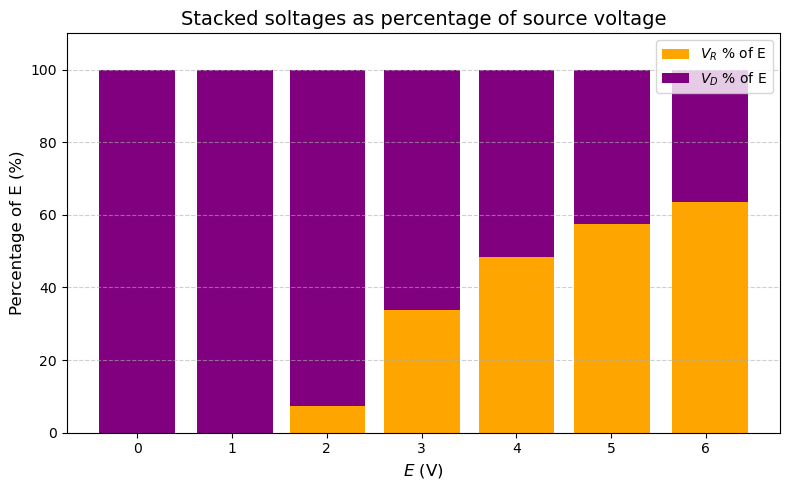
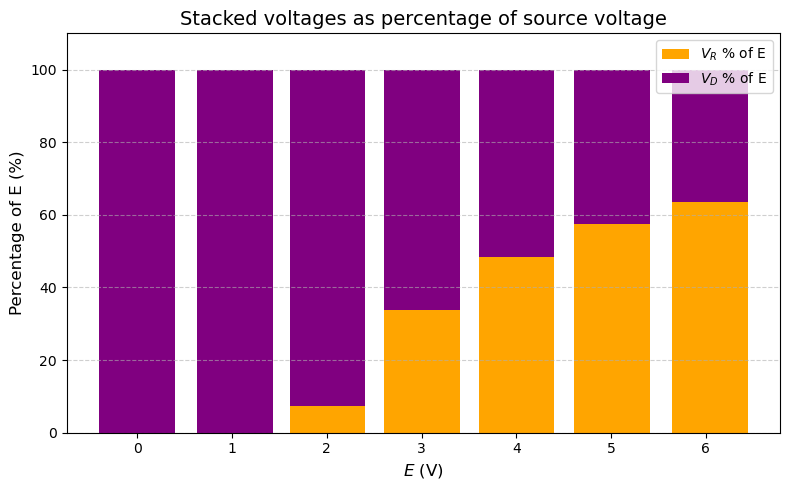
updated part4 plots

Changed region(s): [[0.2127, 0.0306, 0.8506, 0.0612]]

diff --git a/Lab01/Code/Part4Plot.py b/Lab01/Code/Part4Plot.py
@@ -105,7 +105,7 @@ plt.plot(y1, y3, color="purple", linestyle="-", alpha=0.7)
 slope3, intercept3, r2_3, model3 = linear_fit(y1, y3)
 x_line2 = np.linspace(y1[SKIP_POINTS], y1[-1], 100).reshape(-1, 1)
 plt.plot(x_line2, model3.predict(x_line2), color="blue", linestyle="--",
-         label=f"Fit: slope={slope3:.3f}, $R^2$={r2_3:.3f}")
+         label=f"$I_D$ fit: slope={slope3:.3f}, $R^2$={r2_3:.3f}")
 
 # Labels & formatting
 plt.xlabel(r"$V_{D}$ (V)", fontsize=12)
@@ -128,7 +128,7 @@ plt.bar(x, percent_VD, bottom=percent_VR, color="purple", label=r"$V_D$ % of E")
 # Labels & formatting
 plt.xlabel(r"$E$ (V)", fontsize=12)
 plt.ylabel("Percentage of E (%)", fontsize=12)
-plt.title("Stacked soltages as percentage of source voltage", fontsize=14)
+plt.title("Stacked voltages as percentage of source voltage", fontsize=14)
 plt.legend()
 plt.ylim(0, 110)
 plt.grid(axis="y", linestyle="--", alpha=0.6)
